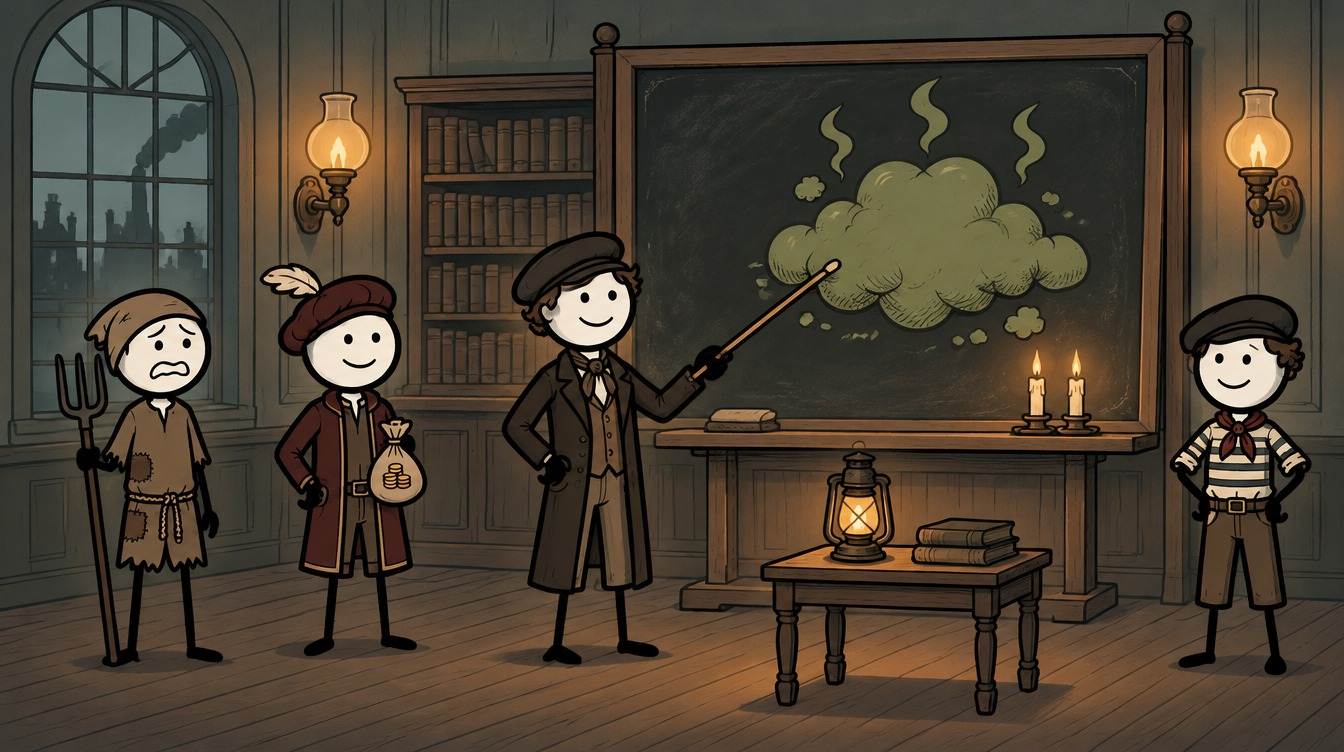
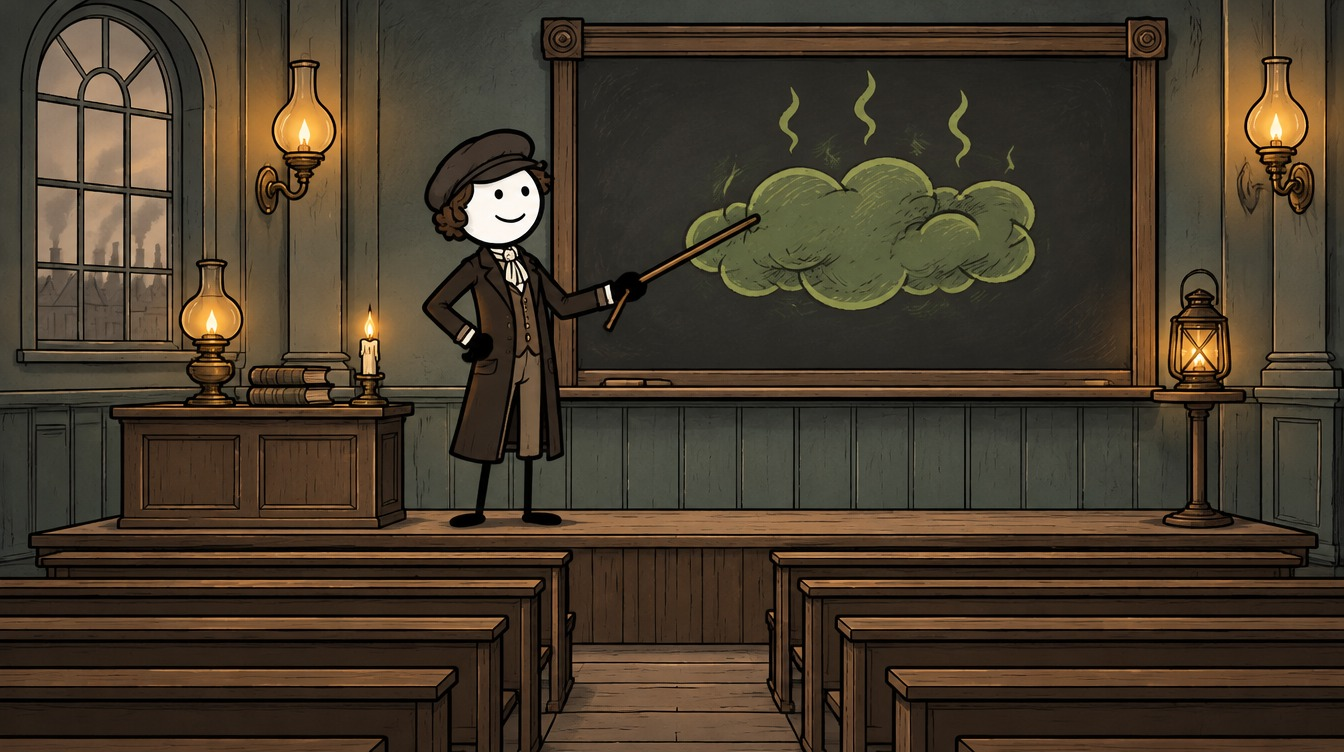
Cholera/Smallpox: fix 3 frames with extra or disconnected hands
Claude-Session: https://claude.ai/code/session_01TNc2K4iQhF6FRvCx2VQdik

diff --git a/tools/plague/ep02_spec.py b/tools/plague/ep02_spec.py
@@ -139,7 +139,7 @@ K('L20c', "Presidents. Composers. I'm not picky.",
 
 # ---- miasma
 N('L21', "So what did the experts think caused it? Bad air. The miasma theory said disease came from foul smells rising from rotting rubbish and filth.",
-  ch('c27a', W(), "A Victorian lecture room: one stickman professor in a frock coat points with a cane at a big drawing of a green stinking cloud on a blackboard. No words on the board."),
+  ch('c27a', W(), "An empty Victorian lecture room with rows of empty benches. Only ONE figure in the whole picture: a stickman professor in a frock coat, standing at the front, pointing with a cane held in one hand at a big drawing of a green stinking cloud on a blackboard; his other hand rests on his hip. Nobody else. No words on the board."),
   sh('c27b', C(.5, .5, 1.1), "Cartoon: a pile of rotting rubbish in a Victorian alley with a wavy green smell rising from it, drawn as a ghostly cloud with a mean face.", text=stamp('MIASMA', x=1400, y=230)))
 N('L22', "To be fair, Victorian London really did stink. Sewage ran into cesspits, and straight into the Thames. The same river that much of the city drank from.",
   sh('c28a', WL(), "The river Thames in the 1850s seen from a bridge: brown murky water, sewage outflow pipes pouring into it, old wooden wharves, moored barges, factory chimneys, the dome of St Paul's in smog."),
@@ -169,7 +169,7 @@ N('L28', "The exceptions told the same story. Workers at a nearby brewery mostly
 K('L29', "She had excellent taste. In water, anyway.",
   kg('c35a', C(.5, .45, 1.1), "King Cholera alone in a dim parlour raises his tin cup in a toast with a wicked grin, as if at a wine tasting, pinky finger out."))
 N('L30', "On the seventh of September, Snow showed his evidence to the local officials. The next day, they removed the handle from the pump.",
-  ch('c36a', W(), "A Victorian parish meeting room: the stickman doctor John Snow stands at a table spreading out his map in front of three seated stickman officials who lean in."),
+  ch('c36a', W(), "A Victorian parish meeting room: the stickman doctor John Snow stands at one end of a long table, both hands flat on a big map spread out on it; two stickman officials in dark coats sit far apart on the other side, each with both hands resting on the table. Only these three figures."),
   ch('c36b', C(.5, .5, 1.1), "A stickman workman in a flat cap and waistcoat lifts the iron handle off a cast-iron public water pump in a foggy Soho street; a few steps away watches the stickman doctor John Snow in a dark frock coat and top hat.", text=cap('8 SEPTEMBER 1854')))
 K('L31', "My pump. My beautiful pump.",
   kg('c37a', C(.5, .45, 1.1), "King Cholera hugs the handle-less cast-iron water pump in the fog, weeping theatrically, water streaming off his hat."))

diff --git a/tools/plague/ep03_spec.py b/tools/plague/ep03_spec.py
@@ -149,7 +149,7 @@ N('L27d', "He had famous survivors too. The eleven-year-old Mozart caught smallp
 N('L28', "Then came the cow. In the English countryside, people had a story: milkmaids who caught cowpox, a mild disease from cows' udders, never got smallpox.",
   ch('c33a', W(), "A sunny 1790s English meadow with a thatched farmhouse: a stickman milkmaid in a bonnet carries two buckets on a yoke, a brown and white cow grazing nearby."))
 N('L29', "In 1796, the doctor Edward Jenner tested it. He took fluid from a cowpox blister on the hand of a milkmaid, Sarah Nelmes, who had caught it from a cow called Blossom, and scratched it into the arm of an eight-year-old boy, James Phipps.",
-  ch('c34a', W(), "An 18th-century country doctor's study: a stickman doctor in a dark coat and a short white wig holds a small lancet near the arm of a stickman boy sitting on a chair; a stickman milkmaid in a bonnet stands a few steps away holding her bandaged hand.", text=cap('EDWARD JENNER · 1796')),
+  ch('c34a', W(), "An 18th-century country doctor's study. Only two figures: a stickman boy sits on a chair facing the viewer with his shirt sleeve rolled up and BOTH hands resting on his knees; a stickman doctor in a dark coat and a short white wig stands beside him holding a small lancet in one hand, the other hand behind his back. A small jar on the table.", text=cap('EDWARD JENNER · 1796')),
   sh('c34b', C(.5, .5, 1.1), "A friendly brown and white cow standing in a green field, looking at the viewer, a little bell on her collar.", text=cap('BLOSSOM')))
 N('L30', "Six weeks later, Jenner exposed the boy to real smallpox. Nothing happened. He was protected.",
   ch('c35a', W(), "The stickman boy stands smiling with his arms up in a sunny garden, healthy; the stickman doctor in a white wig watches from a few steps away, relieved."))
